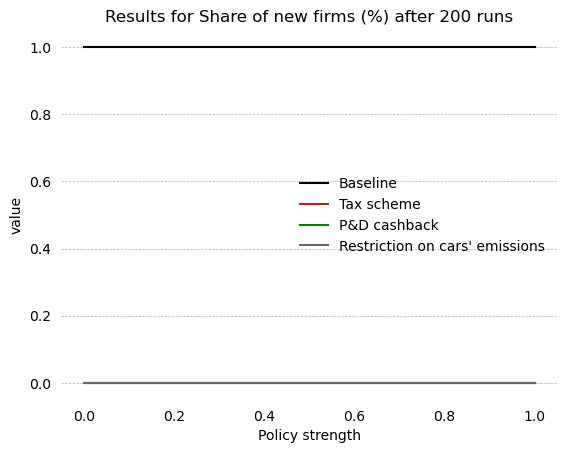
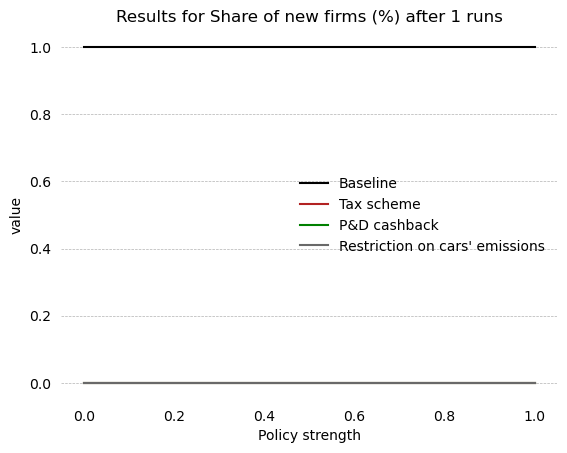
Adjusting II

Changed region(s): [[0.1799, 0.0, 0.8995, 0.0618]]

diff --git a/params.py b/params.py
@@ -73,8 +73,8 @@ br = {'min': 0, 'max': 1}
 levels = linspace(0, 1, 10)
 
 # First value refers to max percentage above average emission. Second, minimum
-e_max_max = .5  # 50%
-e_max_min = .05  # 5%
+e_max_max = 5  # 500%
+e_max_min = 1  # 100%
 e_max = {round(levels[i], 1): round(v, 4) for i, v in enumerate(linspace(e_max_max, e_max_min, 10))}
 # IPI. Limited to 3%
 tax = {round(levels[i], 1): round(v, 4) for i, v in enumerate(linspace(0, .03, 10))}
@@ -95,7 +95,7 @@ def discount_tax_table(e_bench, my_e):
     # Parameter support table to get discount or tax increase values
     intervals = [.7, .85, .95, 1, 1.05, 1.15, 1.3, 1.5]
 
-    # Discounts and over taxes applied. From -5% to 25%
+    # Discounts and over taxes applied. From -25% to 5%
     values = [-.25, -.1275, -.625, -.325, 0, .0125, .025, .0375, .05]
     index = bisect.bisect_left(intervals, e)
     return values[index]

diff --git a/cars.py b/cars.py
@@ -40,6 +40,7 @@ class Vehicle:
         elif self.firm.sim.policy['policy'] == 'e_max':
             # First part refers to intensity of policy. Second refers to Table 5 levels
             e_parameter = self.firm.sim.params.discount_tax_table(self.firm.sim.e, self.emissions())
+            # tax parameter
             policy_tax = self.firm.sim.params.tax[self.firm.sim.policy['level']] * e_parameter
         # P&D CASHBACK Policy should be applied at the firm level. Not the car level.
         # Sales Price does not include FREIGHT and ICMS.

diff --git a/main.py b/main.py
@@ -180,11 +180,11 @@ def sensitivity(parameter, min_value, max_value, n_intervals, _type, path, times
 if __name__ == '__main__':
     save_summary = True
     save_data = True
-    p = r'\\storage1\carga\modelo dinamico de simulacao\eco_cars'
+    p = r'output'
     t0 = time.time()
-    m = 200
+    m = 1
     # Number of cpus that will run simultaneously
-    cpus = 8
+    cpus = 1
     # benchmark(m)
     t = datetime.datetime.utcnow().isoformat().replace(':', '_')
 
